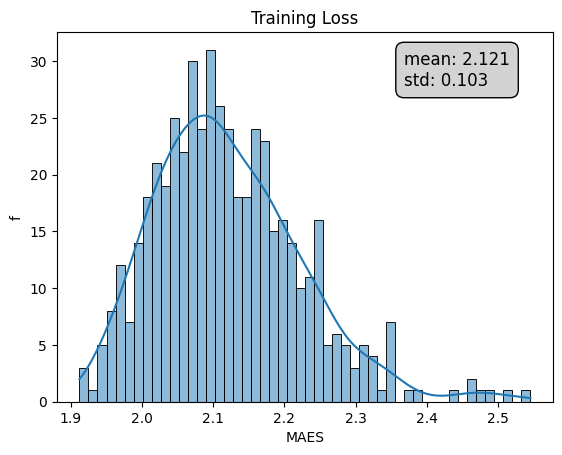
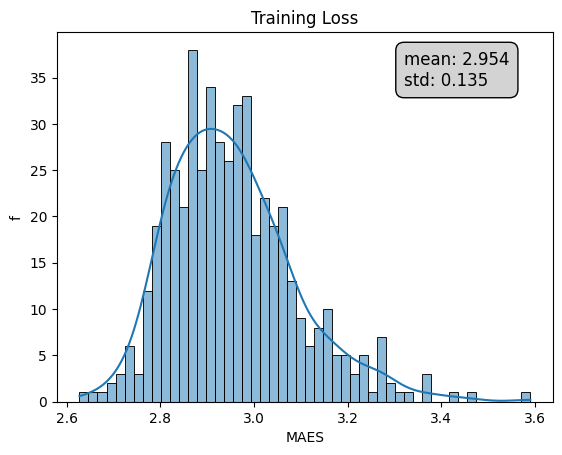
otro commit

diff --git a/src-seba/code_hist.py b/src-seba/code_hist.py
@@ -63,7 +63,7 @@ std_list = [] #desviacion de cada esp. lat
 dr = 0.2
 
 for lat in range(1,21):
-    for i in range(1):
+    for i in range(5):
         MAES_list = []
         autoencoder = NNAutoencoder(99, lat, dr)
         autoencoder.load_state_dict(torch.load(os.path.join("..","Save_Models",dicc_model[lat])))
